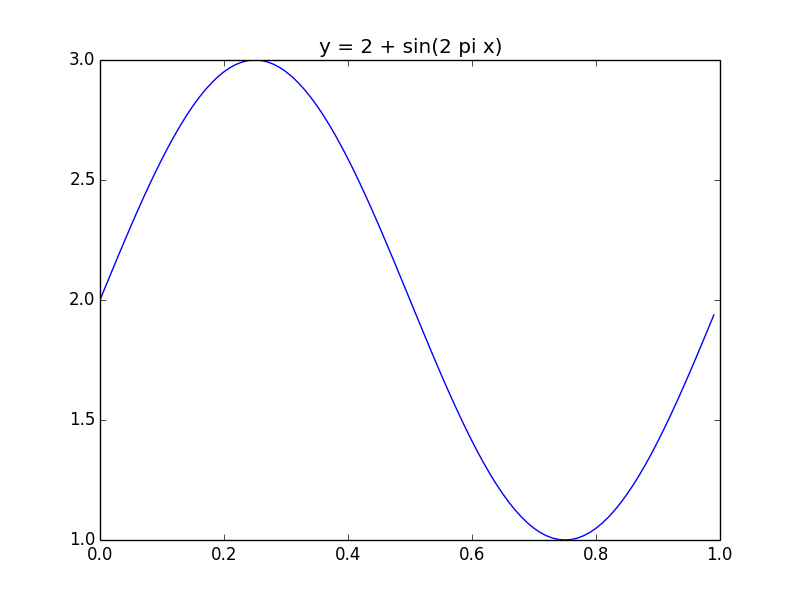
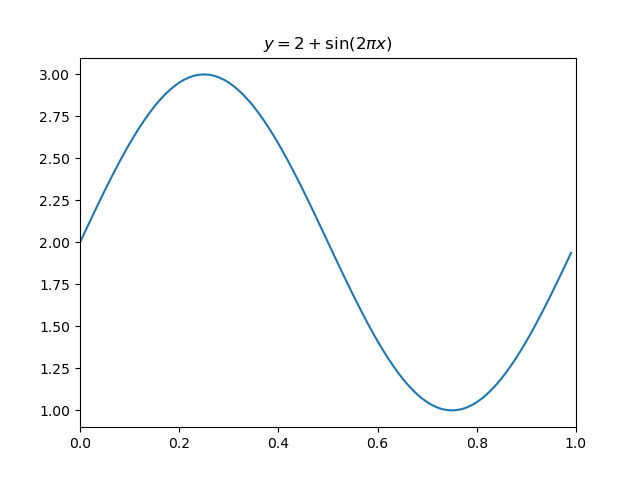
Updated makefile. Specify that cxxplotting only for py27

diff --git a/FML/Plotting/Matplotlibcpp.h b/FML/Plotting/Matplotlibcpp.h
@@ -8,6 +8,7 @@
 //====================================================================
 //
 // Make plots with matplotlib from within C++
+// Works with Python2.7
 //
 // Slightly modified from the library at: https://github.com/lava/matplotlib-cpp
 // Licence: https://github.com/lava/matplotlib-cpp/blob/master/LICENSE

diff --git a/FML/Plotting/example/Main.cpp b/FML/Plotting/example/Main.cpp
@@ -32,7 +32,7 @@ int main() {
     // Call matplotlib
     plt::xlim(0.0, 1.0);
     plt::plot(x_array, y_array);
-    plt::title("y = 2 + sin(2 pi x)");
+    plt::title("$y = 2 + \\sin(2 \\pi x)$");
 
     // Save plot to file
     plt::save(filename);
